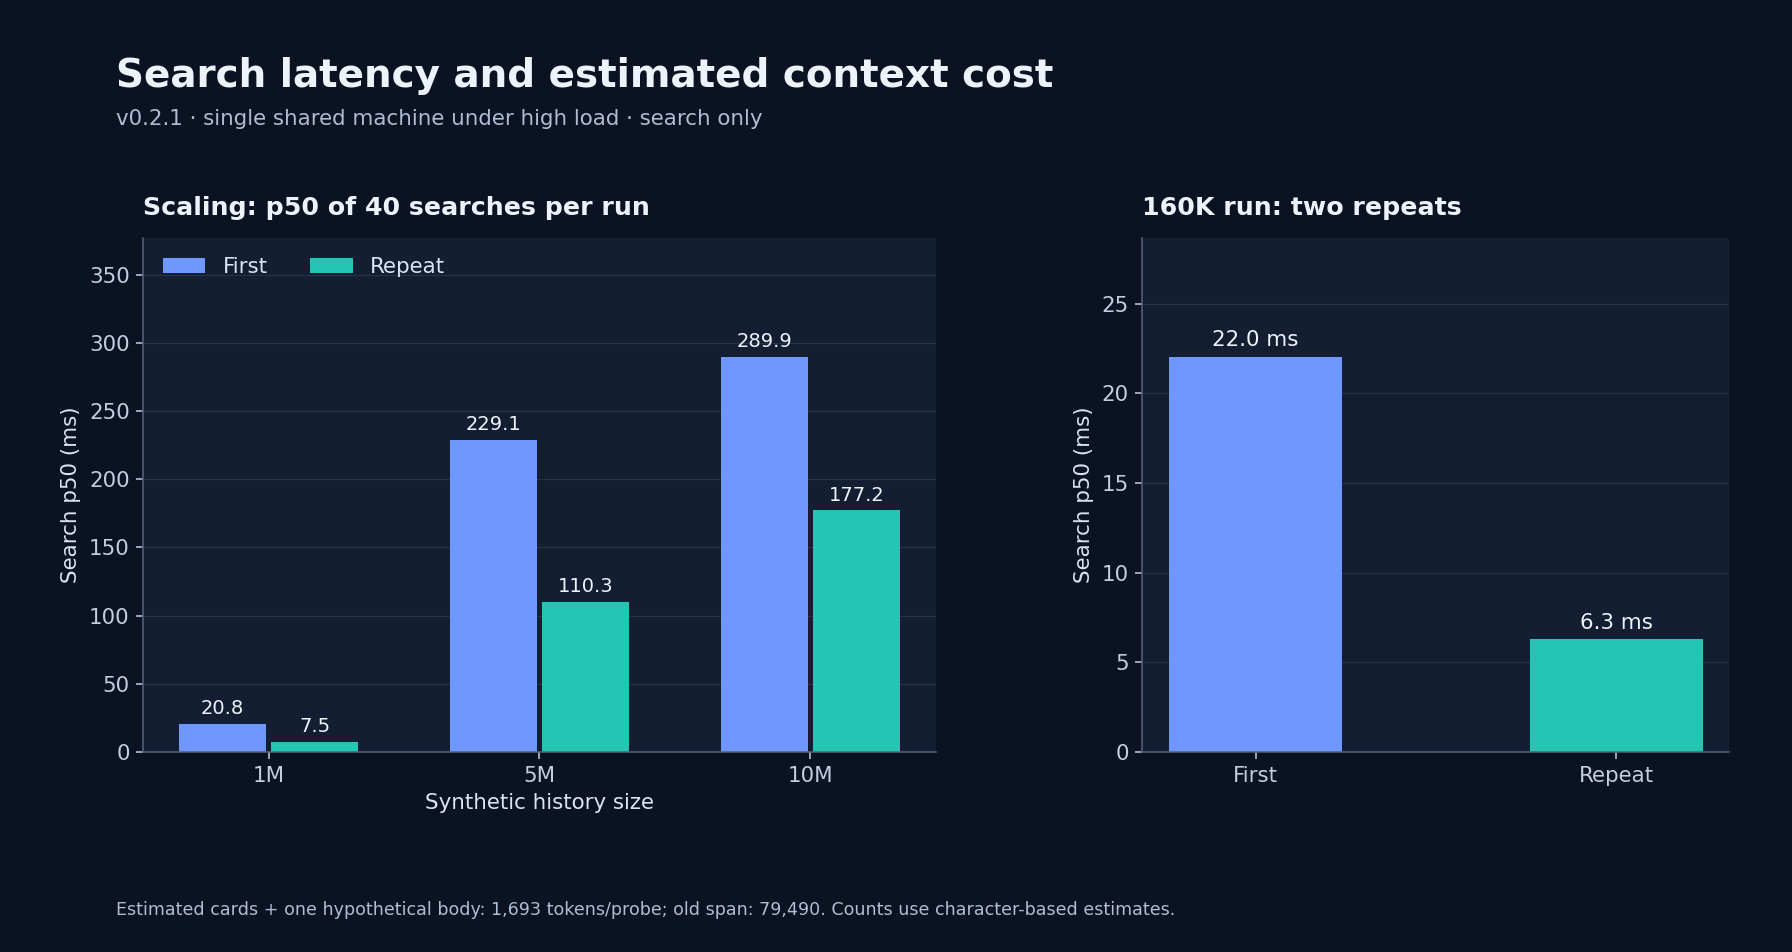
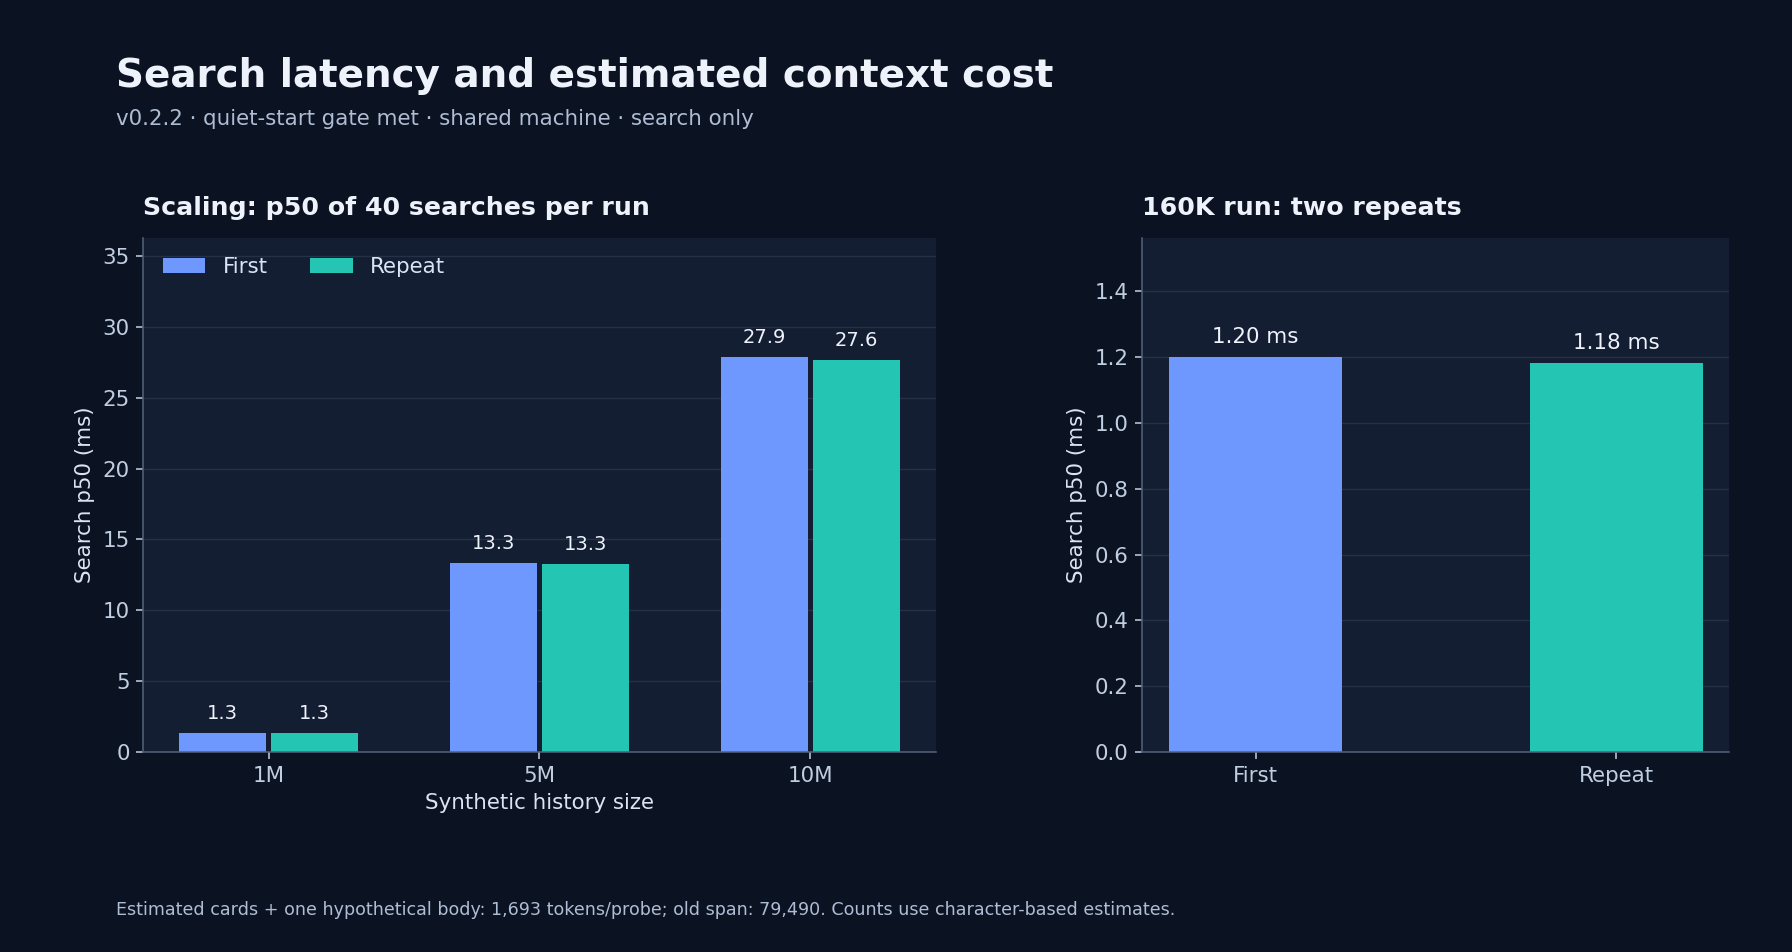
docs: rerun v0.2.2 benchmark under lower load

diff --git a/scripts/plot-benchmarks.py b/scripts/plot-benchmarks.py
@@ -23,6 +23,7 @@ repeat = load("results-compaction-repeat.json")
 scale = load("results-scale.json")["results"]
 scale_repeat = load("results-scale-repeat.json")["results"]
 capacity = load("results-capacity.json")["runs"][1]
+metadata = load("run-metadata.json")
 
 plt.rcParams.update({
     "font.family": "DejaVu Sans",
@@ -63,7 +64,7 @@ def save(fig, name):
 
 # Availability counts for the first two methods and target-record hits for DSH.
 fig, ax = plt.subplots(figsize=(12.8, 6.8))
-heading(fig, "Synthetic long-horizon probes", "160K estimated-token history · 80K window · 40 probes")
+heading(fig, "Synthetic long-horizon probes", f"v{metadata['testedVersion']} · 160K estimated-token history · 80K window · 40 probes")
 fig.subplots_adjust(left=0.085, right=0.965, top=0.79, bottom=0.23)
 setup(ax)
 all_values = [compaction["truncation"]["accuracy"] * 100,
@@ -89,7 +90,7 @@ save(fig, "fact-recall.png")
 
 # Window/history is a ratio, not an observed no-memory recall score.
 fig, axes = plt.subplots(1, 2, figsize=(12.8, 6.8))
-heading(fig, "Synthetic scaling: two different measures", "1M estimated-token window · 40 identifier-based probes per history size")
+heading(fig, "Synthetic scaling: two different measures", f"v{metadata['testedVersion']} · 1M window · 40 identifier-based probes per history size")
 fig.subplots_adjust(left=0.08, right=0.965, top=0.75, bottom=0.19, wspace=0.26)
 labels = ["1M", "5M", "10M"]
 for ax, title in [(axes[0], "Window / history ratio"), (axes[1], "Target-record hit@5")]:
@@ -115,7 +116,7 @@ save(fig, "recall-scaling.png")
 
 # Search latency excludes opening a record or a model call.
 fig, axes = plt.subplots(1, 2, figsize=(12.8, 6.8), gridspec_kw={"width_ratios": [1.35, 1]})
-heading(fig, "Search latency and estimated context cost", "v0.2.1 · single shared machine under high load · search only")
+heading(fig, "Search latency and estimated context cost", f"v{metadata['testedVersion']} · quiet-start gate met · shared machine · search only")
 fig.subplots_adjust(left=0.08, right=0.965, top=0.75, bottom=0.21, wspace=0.3)
 latencies = [r["medianLatencyMs"] for r in scale]
 latencies_repeat = [r["medianLatencyMs"] for r in scale_repeat]
@@ -124,7 +125,8 @@ axes[0].set_title("Scaling: p50 of 40 searches per run", loc="left", pad=12, fon
 for i, (first, second) in enumerate(zip(latencies, latencies_repeat)):
     for offset, value, color in [(-0.17, first, BLUE), (0.17, second, TEAL)]:
         axes[0].bar(i + offset, value, color=color, width=0.32)
-        axes[0].text(i + offset, value + 7, f"{value:.1f}", ha="center", fontsize=10)
+        axes[0].text(i + offset, value + max(latencies + latencies_repeat) * 0.035,
+                     f"{value:.1f}", ha="center", fontsize=10)
 axes[0].set_xticks(range(3), labels)
 axes[0].legend(["First", "Repeat"], loc="upper left", ncol=2, frameon=False, labelcolor="#dbe4f4")
 axes[0].set_ylim(0, max(latencies + latencies_repeat) * 1.3)
@@ -135,7 +137,7 @@ setup(axes[1])
 axes[1].set_title("160K run: two repeats", loc="left", pad=12, fontsize=13)
 axes[1].bar(["First", "Repeat"], repeats, color=[BLUE, TEAL], width=0.48)
 for i, value in enumerate(repeats):
-    axes[1].text(i, value + 0.6, f"{value:.1f} ms", ha="center", fontsize=11)
+    axes[1].text(i, value + max(repeats) * 0.035, f"{value:.2f} ms", ha="center", fontsize=11)
 axes[1].set_ylim(0, max(repeats) * 1.3)
 axes[1].set_ylabel("Search p50 (ms)")
 footnote(fig, f"Estimated cards + one hypothetical body: {compaction['dshMemory']['tokensPerQuestion']:,} tokens/probe; "
@@ -144,7 +146,7 @@ save(fig, "cost-latency.png")
 
 # 100M-token synthetic pool: timed cold GC deletes the removed records.
 fig, axes = plt.subplots(1, 2, figsize=(12.8, 6.8), gridspec_kw={"width_ratios": [1.18, 1]})
-heading(fig, "Synthetic 100M-token pool", "10,000 records · 10,000 assigned tokens per record · shared machine under high load")
+heading(fig, "Synthetic 100M-token pool", "10,000 records · 10,000 assigned tokens per record · quiet-start gate met")
 fig.subplots_adjust(left=0.2, right=0.955, top=0.75, bottom=0.19, wspace=0.45)
 storage_names = ["Index after write", "Index after cold spill", "Original body files"]
 storage = [capacity["indexAfterWriteMiB"], capacity["indexAfterColdMiB"], capacity["bodyFilesMiB"]]
@@ -164,6 +166,6 @@ axes[1].invert_yaxis()
 axes[1].set_xlim(0, max(operations) * 1.35)
 axes[1].set_xlabel("Seconds")
 for i, value in enumerate(operations):
-    axes[1].text(value + 0.8, i, f"{value:.2f}", va="center", fontsize=11)
+    axes[1].text(value + max(operations) * 0.025, i, f"{value:.2f}", va="center", fontsize=11)
 footnote(fig, "Cold spill moves records; cold GC deletes them. Token sizes are assigned synthetic values.")
 save(fig, "capacity.png")

diff --git a/docs/benchmark.md b/docs/benchmark.md
@@ -3,18 +3,29 @@ title: Benchmark report
 layout: default
 ---
 
-# Benchmark report: synthetic long-horizon retrieval on v0.2.1
+# Benchmark report: synthetic long-horizon retrieval on v0.2.2
 
 This report reruns the published synthetic workloads against commit
-[`4e9720d`](https://github.com/QiuXu-Tech/dsh-memory/commit/4e9720d6ba61f88126fde3f5ce62baab20758c22)
+[`c4e2d38`](https://github.com/QiuXu-Tech/dsh-memory/commit/c4e2d381729e885c7d720713e325cc58938f4203)
 on 2026-10-29. The machine was an Apple M4 (10 logical CPUs, 16 GiB), running
-macOS 27.2 and Node 24.21.0. It was heavily loaded: sampled one-minute load
-averages ranged from 57 to 114. Timings describe these runs, not a controlled
-comparison with earlier versions. The [run metadata](assets/benchmarks/run-metadata.json)
-records the tested commit and input hashes.
+macOS 27.2 and Node 24.21.0. Before starting, two consecutive five-second
+samples met the quiet-start gate: CPU busy **14.6% / 14.7%** and one-minute
+load **9.96 / 9.24**. During the longer benchmark stages, six samples showed
+one-minute load **6.85–8.90** and CPU busy **22.2%–32.1%**, including the
+benchmark itself. Sampling intervals can cross stage boundaries; short stages
+may have no dedicated sample. The machine was shared, not isolated. The
+[run metadata](assets/benchmarks/run-metadata.json) and
+[load samples](assets/benchmarks/results-load-samples.jsonl) record the method,
+tested commit and input hashes.
 
-GitHub `main` advanced to v0.2.2 after this measurement. The results below are
-for v0.2.1 and do not measure v0.2.2.
+The execution checkout was `41b47e4`, a report-only descendant of v0.2.2;
+its package and test trees and the three benchmark scripts matched `c4e2d38`.
+GitHub `main` advanced to v0.3.0 during this work; these measurements do not
+evaluate v0.3.0.
+
+The earlier [v0.2.1 report and its high-load measurements](https://github.com/QiuXu-Tech/dsh-memory/blob/41b47e43f0f58b6d46dfe1cfe7baae1630c6a242/docs/benchmark.md)
+remain in Git history. The two runs were not conducted under comparable load,
+so their timing differences do not establish a version performance change.
 
 **Result in brief:** in a synthetic 160K-token history with an 80K-token
 window, 20/40 target facts were present in the retained tail and 24/40 were
@@ -58,9 +69,9 @@ one simulated baseline, not a run of DSH's native compaction implementation.
 
 | Estimated history | Records | Window / history | Search hit@5, both runs | Search p50, first / repeat |
 |---|---:|---:|---:|---:|
-| 1,000,811 tokens | 667 | 99.9% | 40/40 (100%) | 20.8 / 7.5 ms |
-| 5,004,369 tokens | 3,333 | 20.0% | 40/40 (100%) | 229.1 / 110.3 ms |
-| 10,011,439 tokens | 6,667 | 10.0% | 40/40 (100%) | 289.9 / 177.2 ms |
+| 1,000,811 tokens | 667 | 99.9% | 40/40 (100%) | 1.33 / 1.33 ms |
+| 5,004,369 tokens | 3,333 | 20.0% | 40/40 (100%) | 13.32 / 13.28 ms |
+| 10,011,439 tokens | 6,667 | 10.0% | 40/40 (100%) | 27.89 / 27.63 ms |
 
 The window/history column is an arithmetic coverage ratio, not measured
 no-memory recall and not a universal ceiling. Actual availability depends on
@@ -72,11 +83,11 @@ answers correctly.
 
 ![Search medians at three scales and two repeated 160K runs](assets/benchmarks/cost-latency.png)
 
-The 160K comparison's search p50 was **22.0 ms** on the first run and
-**6.3 ms** on a repeat with the same fixture and supplied summary. Each p50 is
-the median of 40 searches. The scaling sweep was also repeated; both sets of
-measurements show why shared-machine timings should not be treated as a stable
-performance estimate.
+The 160K comparison's search p50 was **1.20 ms** on the first run and
+**1.18 ms** on a repeat with the same fixture and supplied summary. Each p50 is
+the median of 40 searches. The scaling sweep was also repeated; two runs on a
+shared machine are not enough to establish a latency distribution or
+production performance.
 
 The script estimates **1,693 tokens per probe** for result cards plus one
 assumed target-record body. It does not call `memory_open` or measure model
@@ -96,13 +107,14 @@ corpus. The two runs use different cold target ratios to reproduce the prior
 
 | Pool | Write | Cold spill | Cold GC |
 |---|---:|---:|---:|
-| 1,000 records / 10M assigned tokens | 6.5 s | 700 records / 7M tokens in 7.35 s | 350 records / 3.5M tokens in 0.62 s |
-| 10,000 records / 100M assigned tokens | 59.2 s | 5,000 records / 50M tokens in 41.77 s | 2,500 records / 25M tokens in 1.15 s |
+| 1,000 records / 10M assigned tokens | 0.4 s | 700 records / 7M tokens in 0.32 s | 350 records / 3.5M tokens in 0.03 s |
+| 10,000 records / 100M assigned tokens | 4.5 s | 5,000 records / 50M tokens in 2.48 s | 2,500 records / 25M tokens in 0.31 s |
 
 In the 100M run, the SQLite index was 9.0 MiB after writing and 26.6 MiB after
 cold spill; the original body files totalled 384.8 MiB. Cold spill moves the
 records, while **cold GC deletes** the records it removes. Both were exercised
-only on throwaway stores. These are single-run times under the load noted above.
+only on throwaway stores. These are single-run times under the sampled load
+noted above.
 
 ## 5. Complementary recall suite
 
@@ -119,15 +131,18 @@ public fixtures. See [evaluation](https://github.com/QiuXu-Tech/dsh-memory/blob/
 ## Scope and limitations
 
 - All measured searches here call `LocalStoreCore` with default rerank
-  weights. They do not benchmark v0.2.1's model-specific `AgentMemory`
+  weights. They do not benchmark v0.2.2's model-specific `AgentMemory`
   profiles, MCP/DSH integration, transcript capture, or an agent's end-to-end
   answers. The offline tests cover some of those code paths but are not an
   agent benchmark.
 - Exact synthetic cues and prefilled card summaries make these retrieval
   probes easier to locate than many real project questions. The results do not
-  establish recall on paraphrases, multi-hop tasks, or missing cues.
-- Timings, including the two repeated 160K results, were collected on a
-  shared, heavily loaded machine. The capacity script prints a `p95` from
+  establish recall on paraphrases, multi-hop tasks, or missing cues. The
+  separate [body-only retrieval findings documented in v0.2.2](https://github.com/QiuXu-Tech/dsh-memory/blob/c4e2d381729e885c7d720713e325cc58938f4203/docs/optimization-findings.md)
+  were not rerun by this benchmark.
+- Timings were collected on a shared machine after the quiet-start gate, with
+  five-second load samples during longer stages; this is not full isolation.
+  The capacity script prints a `p95` from
   only five samples using its own index rule; this report does not treat that
   field as a reliable 95th percentile or declare the former p95 target passed.
 - The supplied summary is reused; no independent model-summary generation or
@@ -141,9 +156,9 @@ remove throwaway stores. The summary must be passed explicitly for the
 comparison.
 
 ```bash
-git clone https://github.com/QiuXu-Tech/dsh-memory.git dsh-memory-benchmark-v021
-cd dsh-memory-benchmark-v021
-git checkout --detach 4e9720d6ba61f88126fde3f5ce62baab20758c22
+git clone https://github.com/QiuXu-Tech/dsh-memory.git dsh-memory-benchmark-v022
+cd dsh-memory-benchmark-v022
+git checkout --detach c4e2d381729e885c7d720713e325cc58938f4203
 out_dir="$(mktemp -d "${TMPDIR:-/tmp}/dsh-benchmark.XXXXXX")"
 node --import ./test/register.mjs scripts/long-horizon-eval.mjs --mode compaction \
   --tokens 160000 --window 80000 --summary docs/assets/benchmarks/compaction-summary.txt \
@@ -164,7 +179,9 @@ The checked-in [compaction results](assets/benchmarks/results-compaction.json),
 [scaling repeat](assets/benchmarks/results-scale-repeat.json),
 [capacity data](assets/benchmarks/results-capacity.json), and raw capacity
 outputs ([10M](assets/benchmarks/results-capacity-10m.txt),
-[100M](assets/benchmarks/results-capacity-100m.txt)) are from this run.
+[100M](assets/benchmarks/results-capacity-100m.txt)),
+[execution records](assets/benchmarks/results-execution.jsonl), and
+[load samples](assets/benchmarks/results-load-samples.jsonl) are from this run.
 Earlier results remain available in Git history. In a checkout containing this
 report, install Matplotlib 3.10.7 in a Python environment and run
 `python scripts/plot-benchmarks.py` to regenerate the PNGs. That script reads

diff --git a/docs/evaluation.md b/docs/evaluation.md
@@ -5,12 +5,12 @@ layout: default
 
 # Evaluation
 
-The public synthetic workloads were rerun on v0.2.1, commit
-[`4e9720d`](https://github.com/QiuXu-Tech/dsh-memory/commit/4e9720d6ba61f88126fde3f5ce62baab20758c22),
-on 2026-10-29. The Apple M4 / Node 24.21.0 machine was heavily loaded; timings
-are observations from that run, not controlled comparisons with the historical
-figures. See the [benchmark report](https://github.com/QiuXu-Tech/dsh-memory/blob/main/docs/benchmark.md) for the full methodology,
-raw results, charts and reproduction commands.
+The public synthetic workloads were rerun on v0.2.2, commit
+[`c4e2d38`](https://github.com/QiuXu-Tech/dsh-memory/commit/c4e2d381729e885c7d720713e325cc58938f4203),
+on 2026-10-29. The Apple M4 / Node 24.21.0 machine met a quiet-start gate;
+it remained shared and load was sampled during the longer stages. See the
+[benchmark report](https://github.com/QiuXu-Tech/dsh-memory/blob/main/docs/benchmark.md)
+for methodology, load samples, raw results, charts and reproduction commands.
 
 ## Retrieval quality
 
@@ -29,15 +29,15 @@ contains a cold record, so it is not evidence of cold-record retrieval.
 A previous run against a private, curated 40-question archive reported hit@1
 73%, hit@3/hit@5 95%, cold recall 100%, and search p50 1.3 ms; a prior
 baseline was reported as 67% hit@5. That archive and its raw probes are not
-public, and the run was **not repeated** for v0.2.1. These historical numbers
+public, and the run was **not repeated** for v0.2.2. These historical numbers
 cannot be independently reproduced using the public fixture.
 
 ## Capacity and storage
 
 | Synthetic pool | Write | Cold spill | Cold GC |
 |---|---:|---:|---:|
-| 1,000 records / 10M assigned tokens | 6.5 s | 700 records / 7M in 7.35 s | 350 records / 3.5M in 0.62 s |
-| 10,000 records / 100M assigned tokens | 59.2 s | 5,000 records / 50M in 41.77 s | 2,500 records / 25M in 1.15 s |
+| 1,000 records / 10M assigned tokens | 0.4 s | 700 records / 7M in 0.32 s | 350 records / 3.5M in 0.03 s |
+| 10,000 records / 100M assigned tokens | 4.5 s | 5,000 records / 50M in 2.48 s | 2,500 records / 25M in 0.31 s |
 
 The 100M run used 384.8 MiB of original body files and a 9.0 MiB SQLite index
 after writing, growing to 26.6 MiB after cold spill. Token counts are assigned
@@ -57,6 +57,6 @@ current public-fixture measurement.
 - The capacity helper's printed `p95` is based on five samples and selects the
   second-largest value. It is not a reliable 95th percentile. This rerun does
   not establish that the former `p95 < 50 ms` target is met.
-- The offline harness passed 108/108 tests at the tested commit after building
+- The offline harness passed 110/110 tests at the tested commit after building
   the bundle; this validates its test cases, not production or real-agent
   performance.

diff --git a/README.md b/README.md
@@ -166,11 +166,11 @@ HTTP API: `GET /api/memory.index|record|search|metrics`, `POST /api/memory.statu
 | Metric | Result |
 |---|---|
 | Historical private archive (40 curated questions; not rerun) | reported hit@5 **95%** (baseline 67%); not reproducible from the public fixture |
-| Synthetic recall suite (v0.2.1 rerun) | 80/80 target-record hits at rank 1 |
-| 10k records / 100M assigned tokens (v0.2.1, synthetic, high-load machine) | write 59.2 s; cold spill 5,000 records/50M tokens in 41.77 s; cold GC 2,500 records/25M tokens in 1.15 s |
-| FTS storage (body-less card+abstract index) | Synthetic v0.2.1 100M-token pool: 9.0 MiB after writing, 26.6 MiB after cold spill |
+| Synthetic recall suite (v0.2.2 rerun) | 80/80 target-record hits at rank 1 |
+| 10k records / 100M assigned tokens (v0.2.2, synthetic, quiet-start gate) | write 4.5 s; cold spill 5,000 records/50M tokens in 2.48 s; cold GC 2,500 records/25M tokens in 0.31 s |
+| FTS storage (body-less card+abstract index) | Synthetic v0.2.2 100M-token pool: 9.0 MiB after writing, 26.6 MiB after cold spill |
 
-**Synthetic 160K history / 80K window, on v0.2.1:** the retained tail made 20/40 target facts available; the previously supplied summary plus tail made 24/40 available. dsh-memory search returned the target record for 40/40 probes. These are availability and retrieval checks, not end-to-end answer accuracy. Full charts, timing conditions and methodology: **[docs/benchmark.md](docs/benchmark.md)**. Recent experiments and the optimization backlog: [docs/optimization-findings.md](docs/optimization-findings.md).
+**Synthetic 160K history / 80K window, on v0.2.2:** the retained tail made 20/40 target facts available; the previously supplied summary plus tail made 24/40 available. dsh-memory search returned the target record for 40/40 probes. These are availability and retrieval checks, not end-to-end answer accuracy. Full charts, timing conditions and methodology: **[docs/benchmark.md](docs/benchmark.md)**. Recent experiments and the optimization backlog: [docs/optimization-findings.md](docs/optimization-findings.md).
 
 Reproduction commands, including the required saved summary and cold target ratios, are in [docs/benchmark.md](docs/benchmark.md). Additional context is in [docs/evaluation.md](docs/evaluation.md).
 
